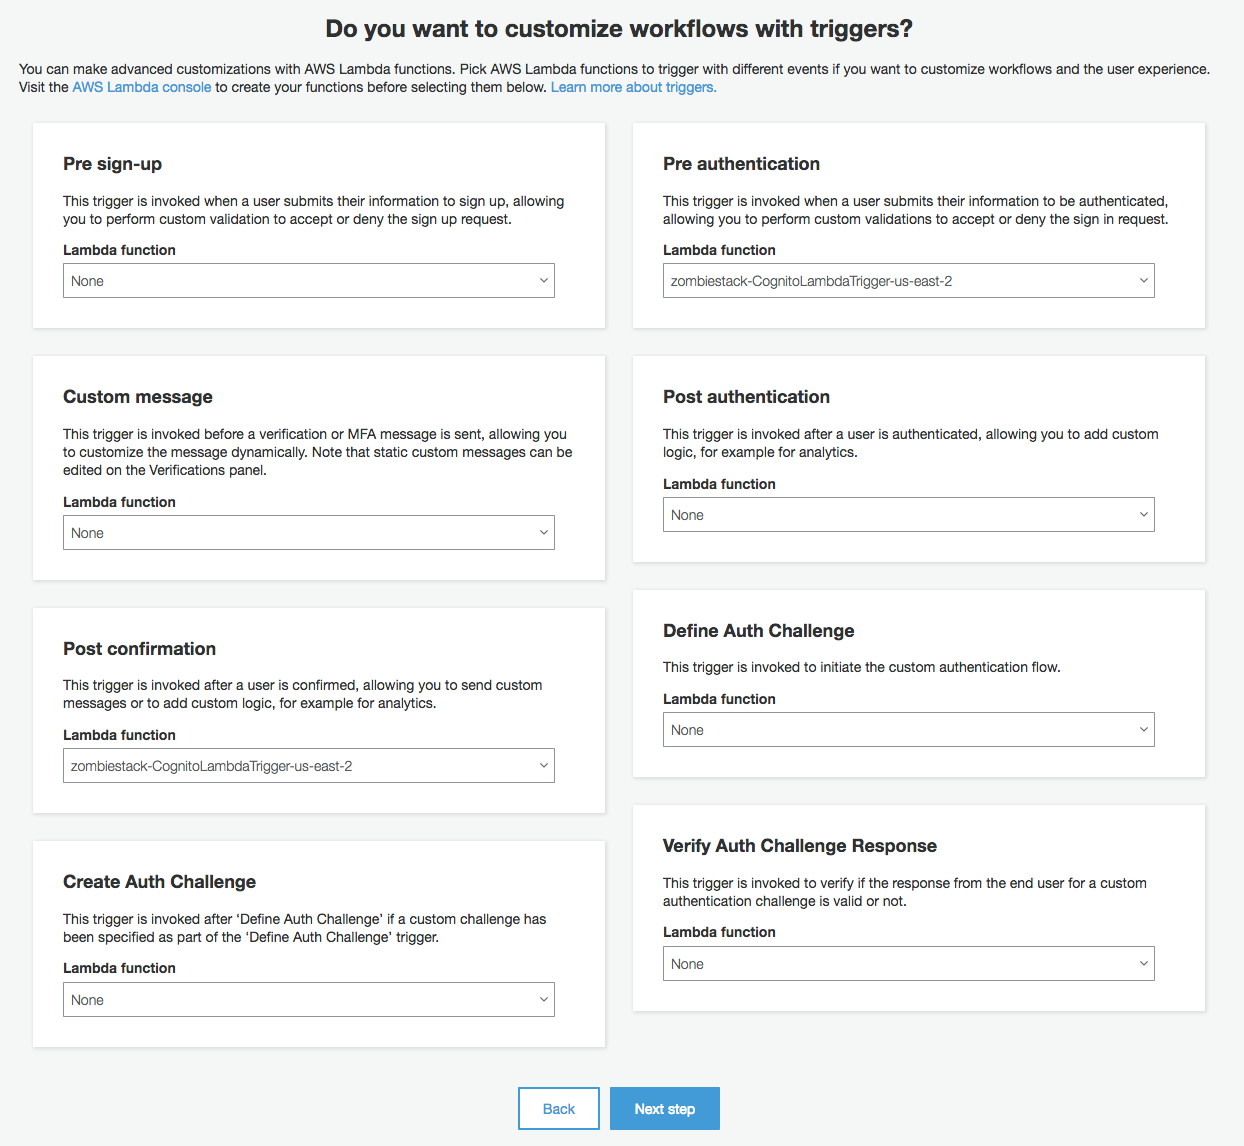
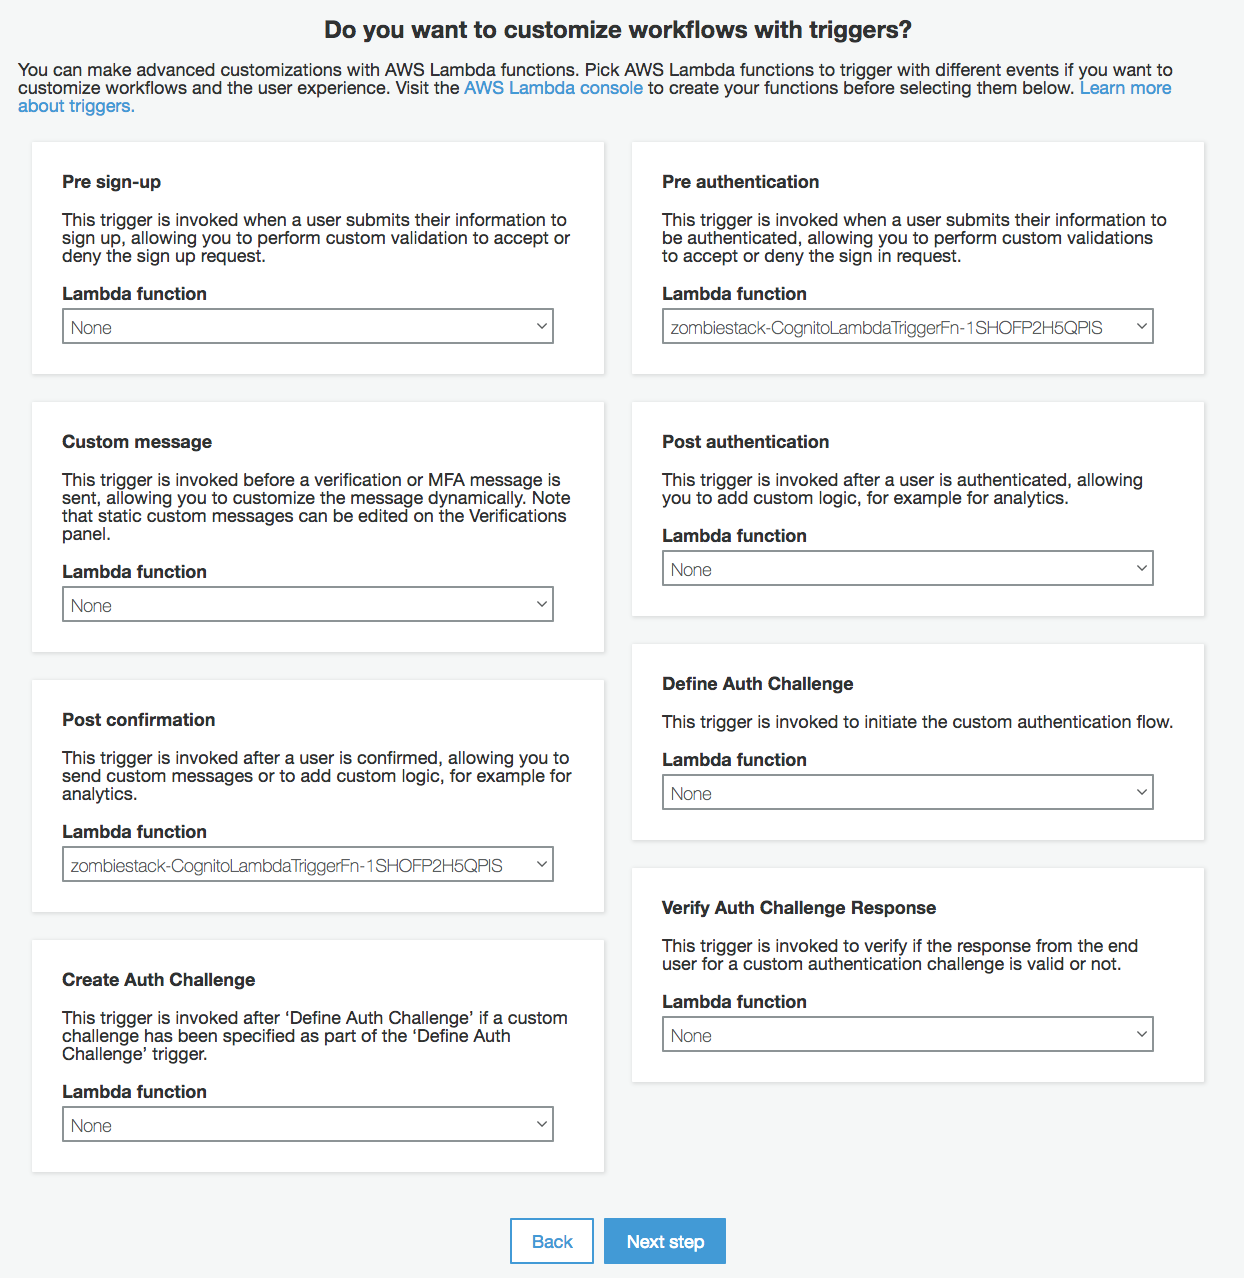
update

diff --git a/NEW/1_Cognito/README.md b/NEW/1_Cognito/README.md
@@ -4,9 +4,9 @@ In this lab, you will integrate user authentication and API authorization into y
 
 ## Architecture Overview
 
-The Zombie survivor chat requires a survivor to sign up for a user account in order to communicate with other survivors. Once a survivor signs up for an account, they will be able to authenticate into the communications system in order to chat with other apocalypse survivors. [Amazon Cognito](https://aws.amazon.com/cognito/) provides the ability to create user directories for this purpose with [Cognito User Pools](http://docs.aws.amazon.com/cognito/latest/developerguide/cognito-user-identity-pools.html). You will now setup the Cognito User Pool as a user directory for your survivors. 
+The Zombie survivor chat requires a survivor to sign up for a user account in order to communicate with other survivors. Once a survivor signs up for an account, they will be able to authenticate into the communications system in order to chat with other apocalypse survivors. [Amazon Cognito](https://aws.amazon.com/cognito/) provides the ability to create user directories for your application users with [Cognito User Pools].(http://docs.aws.amazon.com/cognito/latest/developerguide/cognito-user-identity-pools.html). You will now setup a new Cognito User Pool as a user directory for your application. 
 
-Once a survivor has successfully logged into the communications system, their session will include temporary credentials from Cognito User Pools in the form of a JSON Web Tokens (JWT) that will be used by the application when making authenticated requests to the REST API.
+Once a survivor has successfully signed up for an account, they will be able to log into the communications system. When a user logs in, Cognito will return a JWT token (JSON Web Token) to the application which is used to fill the authentication header in web requests to your API from the application.
 
   ![Authentication with Cognito User Pools](images/CognitoArchitectureOverview.png)
 
@@ -23,17 +23,17 @@ You will use the AWS Management Console to create a User Pool for your applicati
 
 1. In the AWS Management Console, in the AWS Services search bar, type `cognito` and then select **Cognito** from the drop down.
 
-2. Choose **+Manage your User Pools**
+2. Choose **Manage your User Pools**
 
-3. In the Cognito User Pools console, select the blue **Create your User Pool** button in the upper right corner. 
+3. In the Cognito User Pools console, select the blue **Create a User Pool** button in the upper right corner. 
 
-4. In the Pool Name text box, name your user pool `YOUR_CLOUDFORMATION_STACK_NAME-userpool`. For example, if you left your CloudFormation stack as the default name of "zombiestack" earlier, then your user pool name would be "zombiestack-userpool". After naming your User Pool, click **Step through Settings** to continue with manual setup.
+4. In the Pool Name text box, name your user pool `[YOUR CLOUDFORMATION STACK NAME]-userpool`. For example, if you left your CloudFormation stack as the default name of "zombiestack" earlier, then your user pool name would be "zombiestack-userpool". After naming your User Pool, click **Step through Settings** to continue with manual setup.
 
    ![CognitoUserPool-NameStep](images/CognitoUserPool-NameStep.png)
 
-5. On the attributes page, select the **Required** checkbox for the following attributes: `email, name, phone number`. Make sure that all three are selected before continuing.
+5. On the attributes page, select the **Required** checkbox for the following attributes: `email, name, phone number`. Make sure that these are the only attributes you select. The application for the this workshop is designed to only work with the above three attributes at this time. Make sure not to select additional options. 
 
-  > Cognito User Pools allows you to define attributes that you'd like to associate with users of your application. These represent values that your users will provide when they sign up for your app. They are available to your application as a part of the session data provided to your client apps when users authenticate with Cognito.
+> Note: Cognito User Pools allows you to define attributes that you'd like to associate with users of your application. These represent values that your users will provide when they sign up for your app. They are available to your application as a part of the session data provided to your client apps when users authenticate with Cognito. 
 
 6. Click the link **Add custom attribute**. Type a **Name** of `slackuser` exactly as typed here and leave the rest of the fields as is. Then click **Add another attribute** and add another custom attribute named `slackteamdomain`, leaving the rest of the fields as is. Finally, add a 3rd custom attribute by clicking **Add another attribute** and type `camp` as the name, leaving the rest of the fields as is. Click **Next Step**.
 
@@ -43,7 +43,7 @@ You will use the AWS Management Console to create a User Pool for your applicati
 
 8. On the verifications page, leave the defaults and click **Next step**.
 
-  > We will not require MFA for this application, or SMS. However, during our application's sign up process, we are requiring verification via email address. This is denoted with the email checkbox selected for "Do you want to require verification of emails or phone numbers?". With this setting, when users sign up for the application, a confirmation code will be sent to their email which they'll be required to input into the application for confirmation before their account creation is completed.
+> Note: We will not require MFA for this application, or SMS. However, during our application's sign up process, we are requiring verification via email address. This is denoted with the email checkbox selected for "Do you want to require verification of emails or phone numbers?". With this setting, when users sign up for the application, a confirmation code will be sent to their email which they'll be required to input into the application for confirmation before their account creation is completed.
 
 9. On the next page, type `Signal Corps Survivor Confirmation` for the **Email subject**. We won't modify the message body but you could add your own custom message in there. We'll let Cognito send the confirmation code emails from the service email address, but in production you could configure Cognito to send these verifications from an SES verified address along with a custom message. Leave the rest of the default settings and click **Next step**.
 
@@ -55,7 +55,7 @@ You will use the AWS Management Console to create a User Pool for your applicati
 
 13. For both the **Readable Attributes** and **Writeable Attributes** settings, verify that **all of the checkboxes are selected**. Then click **Create app client**, and then click **Next step**.
 
-14. On the custom triggers page, you will configure a `Pre authentication` trigger and a `Post confirmation` trigger. In the dropdowns for the **Pre authentication** and **Post confirmation** triggers, select the Lambda function named `YOUR_CLOUDFORMATION_STACK_NAME-CognitoLambdaTrigger-YOUR_REGION`. Click **Next step**.
+14. On the custom triggers page, you will configure a `Pre authentication` trigger and a `Post confirmation` trigger. In the dropdowns for the **Pre authentication** and **Post confirmation** triggers, select the Lambda function named `[YOUR CLOUDFORMATION STACK NAME]-CognitoLambdaTriggerFn-...`. Click **Next step**.
 
   ![CognitoUserPoolTriggers](images/CognitoUserPoolTriggers.png)
 
